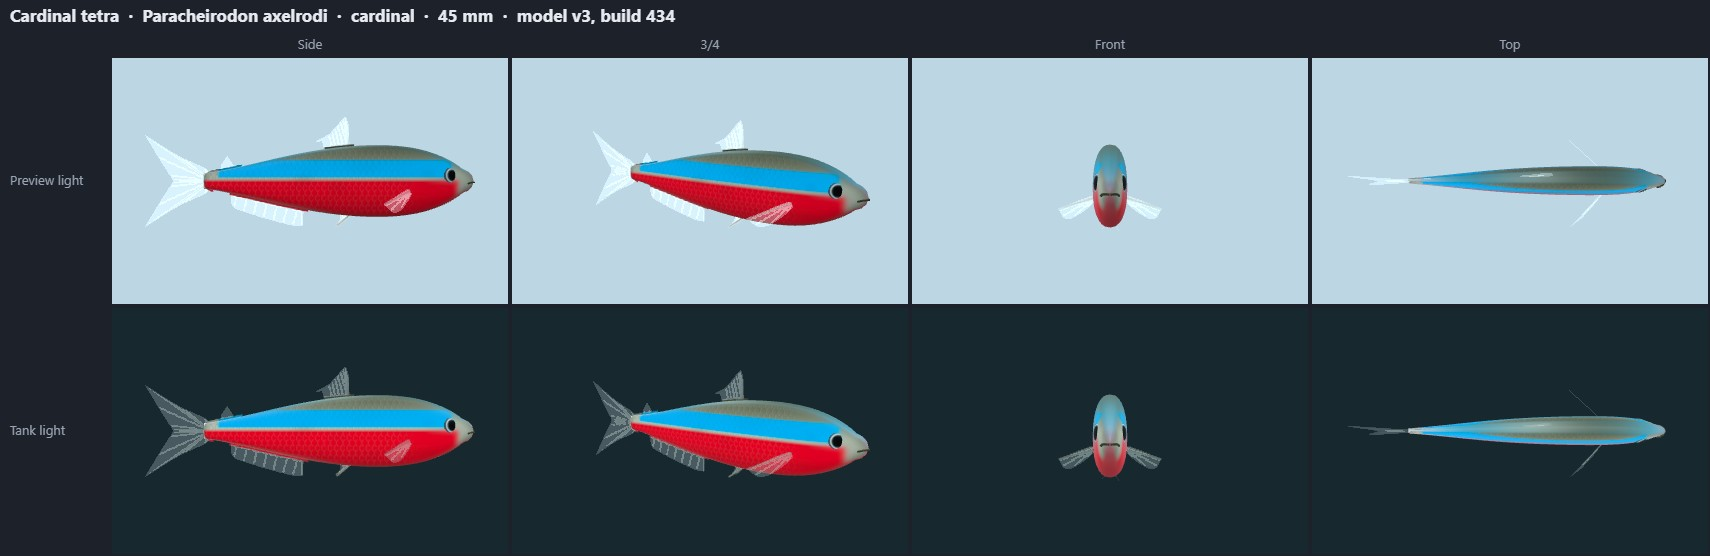
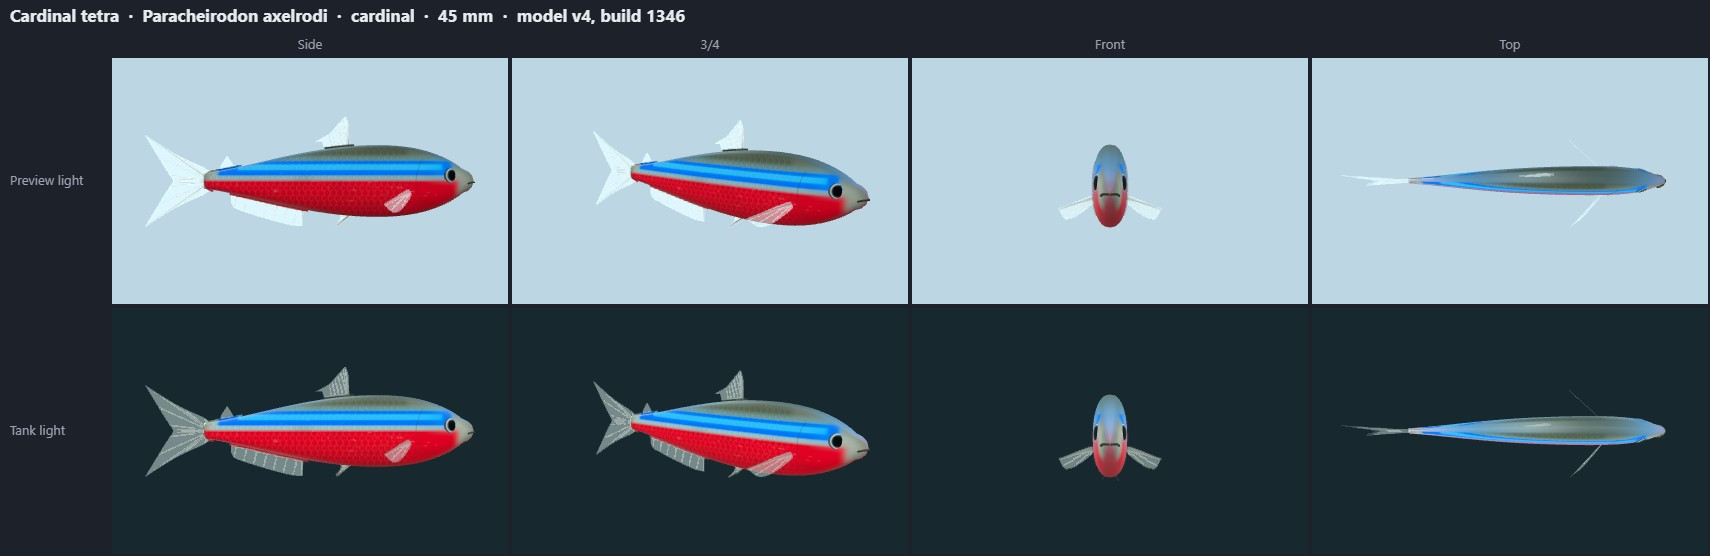
Model sheets recorded: neon v4, cardinal v4, green neon v2 (the tetra realism pass)

diff --git a/public/model-sheets/index.html b/public/model-sheets/index.html
@@ -10,15 +10,15 @@ figure { margin: 8px 0 14px; padding: 8px; background: var(--panel); border-radi
 img { display: block; max-width: 100%; height: auto }
 </style></head><body>
 <h1>Model sheets</h1>
-<p>Pre-rendered review images of every TankLook animal model (no WebGL needed): 147 models, 96 species, written at build 1331.
+<p>Pre-rendered review images of every TankLook animal model (no WebGL needed): 147 models, 96 species, written at build 1346.
 Each sheet shows the Side, 3/4, Front, Top views; top row in the plain preview light, bottom row at true size in the default tank's LED light and water.
 Click a sheet for the full-size image (1710 × 556 px). Interactive version: <a href="../review.html">review.html</a>.</p>
 <h2>Freshwater fish</h2>
-<figure id="neon"><figcaption><b>Neon tetra</b> · <i>Paracheirodon innesi</i> · neon · 38 mm · model v3 (build 434, 2026-10-15)</figcaption><a href="neon.jpg"><img src="neon.jpg" width="1710" height="556" loading="lazy" alt="Neon tetra (Paracheirodon innesi), model v3: Side, 3/4, Front, Top views, preview light (top row) and tank light (bottom row)"></a></figure>
-<figure id="cardinal"><figcaption><b>Cardinal tetra</b> · <i>Paracheirodon axelrodi</i> · cardinal · 45 mm · model v3 (build 434, 2026-10-15)</figcaption><a href="cardinal.jpg"><img src="cardinal.jpg" width="1710" height="556" loading="lazy" alt="Cardinal tetra (Paracheirodon axelrodi), model v3: Side, 3/4, Front, Top views, preview light (top row) and tank light (bottom row)"></a></figure>
+<figure id="neon"><figcaption><b>Neon tetra</b> · <i>Paracheirodon innesi</i> · neon · 38 mm · model v4 (build 1346, 2026-10-27)</figcaption><a href="neon.jpg"><img src="neon.jpg" width="1710" height="556" loading="lazy" alt="Neon tetra (Paracheirodon innesi), model v4: Side, 3/4, Front, Top views, preview light (top row) and tank light (bottom row)"></a></figure>
+<figure id="cardinal"><figcaption><b>Cardinal tetra</b> · <i>Paracheirodon axelrodi</i> · cardinal · 45 mm · model v4 (build 1346, 2026-10-27)</figcaption><a href="cardinal.jpg"><img src="cardinal.jpg" width="1710" height="556" loading="lazy" alt="Cardinal tetra (Paracheirodon axelrodi), model v4: Side, 3/4, Front, Top views, preview light (top row) and tank light (bottom row)"></a></figure>
 <figure id="ember"><figcaption><b>Ember tetra</b> · <i>Hyphessobrycon amandae</i> · ember · 23 mm · model v4 (build 1331, 2026-10-27)</figcaption><a href="ember.jpg"><img src="ember.jpg" width="1710" height="556" loading="lazy" alt="Ember tetra (Hyphessobrycon amandae), model v4: Side, 3/4, Front, Top views, preview light (top row) and tank light (bottom row)"></a></figure>
 <figure id="dwarfpencil"><figcaption><b>Dwarf pencilfish</b> · <i>Nannostomus marginatus</i> · dwarfpencil · 35 mm · model v2 (build 1166, 2026-10-22)</figcaption><a href="dwarfpencil.jpg"><img src="dwarfpencil.jpg" width="1710" height="556" loading="lazy" alt="Dwarf pencilfish (Nannostomus marginatus), model v2: Side, 3/4, Front, Top views, preview light (top row) and tank light (bottom row)"></a></figure>
-<figure id="greenneon"><figcaption><b>Green neon tetra</b> · <i>Paracheirodon simulans</i> · greenneon · 30 mm · model v1 (build 1271, 2026-10-26)</figcaption><a href="greenneon.jpg"><img src="greenneon.jpg" width="1710" height="556" loading="lazy" alt="Green neon tetra (Paracheirodon simulans), model v1: Side, 3/4, Front, Top views, preview light (top row) and tank light (bottom row)"></a></figure>
+<figure id="greenneon"><figcaption><b>Green neon tetra</b> · <i>Paracheirodon simulans</i> · greenneon · 30 mm · model v2 (build 1346, 2026-10-27)</figcaption><a href="greenneon.jpg"><img src="greenneon.jpg" width="1710" height="556" loading="lazy" alt="Green neon tetra (Paracheirodon simulans), model v2: Side, 3/4, Front, Top views, preview light (top row) and tank light (bottom row)"></a></figure>
 <figure id="merah"><figcaption><b>Strawberry rasbora</b> · <i>Boraras merah</i> · merah · 24 mm · model v1 (build 1271, 2026-10-26)</figcaption><a href="merah.jpg"><img src="merah.jpg" width="1710" height="556" loading="lazy" alt="Strawberry rasbora (Boraras merah), model v1: Side, 3/4, Front, Top views, preview light (top row) and tank light (bottom row)"></a></figure>
 <figure id="exclamation"><figcaption><b>Exclamation point rasbora</b> · <i>Boraras urophthalmoides</i> · exclamation · 19 mm · model v1 (build 1271, 2026-10-26)</figcaption><a href="exclamation.jpg"><img src="exclamation.jpg" width="1710" height="556" loading="lazy" alt="Exclamation point rasbora (Boraras urophthalmoides), model v1: Side, 3/4, Front, Top views, preview light (top row) and tank light (bottom row)"></a></figure>
 <figure id="dwarfrasbora"><figcaption><b>Dwarf spotted rasbora</b> · <i>Boraras maculatus</i> · dwarfrasbora · 30 mm · model v1 (build 1271, 2026-10-26)</figcaption><a href="dwarfrasbora.jpg"><img src="dwarfrasbora.jpg" width="1710" height="556" loading="lazy" alt="Dwarf spotted rasbora (Boraras maculatus), model v1: Side, 3/4, Front, Top views, preview light (top row) and tank light (bottom row)"></a></figure>
